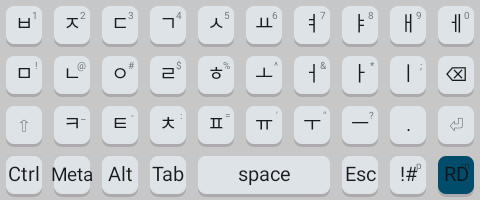
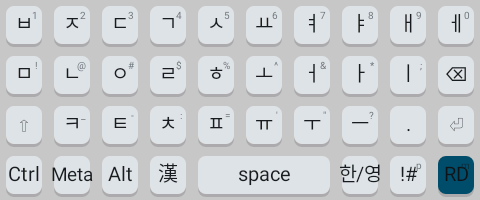
한/영 and 한자 on the remote page, and its keys sent as a physical keyboard's (0.2.5)
The owner: the far side's 한/영 key is the right Alt and its 한자 key the right Ctrl. The 2-beolsik
remote-desktop page now has 漢 (right Ctrl) left of space and 한/영 (right Alt) right of it, where a
Korean keyboard has them, in the cells Tab and Esc hold on every other layout; both are a tap away
on the !# page. New RawKey CTRL_RIGHT and ALT_RIGHT (evdev 97 and 100), named RCtrl and RAlt on the
action bar's chord picker, where PERIOD now reads "." too.

Checking those two by logging what the editor received showed a defect in 0.2.4 (manual §15.72):
a raw key with no modifier went out in the soft shape — scan code 0, virtual keyboard — which a
remote-desktop relay's soft path types as a character rather than forwarding as a key, so the far
IME would never have seen it. Only chords were dressed as hardware. SemanticInput.physicalKey
marks a raw key to be sent as a plugged-in keyboard sends it, with or without modifiers; the mark
rides through KeyAction.rawKey(SemanticInput) to the executor. Every key on the remote page is one,
Tab included, and a test requires a scan code for each.

The device matrix now turns remote mode off before it starts (a mode left on by a manual check
failed 29 cells), and stops at once if the test host APK is missing (`gradlew clean` deletes it;
six cells failed on that).

Verified:
- ./gradlew :app:testModernDebugUnitTest :app:testLegacyDebugUnitTest - PASS, 991 cases per
[…]

Changed region(s): [[0.6875, 0.81, 0.8125, 0.93], [0.3125, 0.81, 0.4062, 0.93]]

diff --git a/app/src/test/java/com/retekey/RemoteDesktopLayoutTest.java b/app/src/test/java/com/retekey/RemoteDesktopLayoutTest.java
@@ -41,6 +41,9 @@ public final class RemoteDesktopLayoutTest {
                         assertEquals(id + " " + letters.charAt(i), expected, input.rawKey());
                         // Shift travels with the press (the view folds it in), not in the key.
                         assertTrue(input.modifiers().isEmpty());
+                        // Sent the way a plugged-in keyboard sends it, so a relay takes it as a
+                        // key for the far IME rather than as a letter to type.
+                        assertTrue(input.isPhysical());
                         seen.add(input.rawKey());
                     }
                 }
@@ -79,6 +82,91 @@ public final class RemoteDesktopLayoutTest {
         KeyboardLayout page = KeyboardLayouts.remoteDesktop(KeyboardLayoutId.KO_DUBEOLSIK, false);
         List<SoftwareKeySpec> bottom = page.rows().get(3);
         assertEquals(ControlKey.REMOTE_DESKTOP, bottom.get(bottom.size() - 1).control());
+    }
+
+    @Test
+    public void theKoreanPageCarriesHanjaAndHanYeongWhereAKoreanKeyboardDoes() {
+        // On the far side's Korean IME, 한/영 is the right Alt and 한자 the right Ctrl (owner,
+        // 2026-11-18). They take Tab's and Esc's cells, either side of space, as on the hardware.
+        for (boolean shifted : new boolean[] {false, true}) {
+            KeyboardLayout page = KeyboardLayouts.remoteDesktop(
+                KeyboardLayoutId.KO_DUBEOLSIK, shifted);
+            List<SoftwareKeySpec> bottom = page.rows().get(3);
+            int space = bottom.indexOf(page.findById("touch.rd.space"));
+            SoftwareKeySpec hanja = bottom.get(space - 1);
+            SoftwareKeySpec hanYeong = bottom.get(space + 1);
+            assertEquals("漢", hanja.label());
+            assertEquals(RawKey.CTRL_RIGHT, hanja.semanticInput().rawKey());
+            assertEquals("한/영", hanYeong.label());
+            assertEquals(RawKey.ALT_RIGHT, hanYeong.semanticInput().rawKey());
+            assertEquals(ControlKey.CTRL, bottom.get(0).control());
+            assertEquals(ControlKey.META, bottom.get(1).control());
+            assertEquals(ControlKey.ALT, bottom.get(2).control());
+            assertEquals(null, page.findById("touch.rd.escape"));
+        }
+        KeyboardLayout russian = KeyboardLayouts.remoteDesktop(KeyboardLayoutId.RU_JCUKEN, false);
+        assertEquals(null, russian.findById("touch.rd.hanja"));
+        assertEquals(null, russian.findById("touch.rd.hanyeong"));
+        assertNotNull(russian.findById("touch.rd.escape"));
+        assertNotNull(russian.findById("touch.rd.tab"));
+    }
+
+    @Test
+    public void theRightHandModifiersReachTheEditorAsThemselves() {
+        assertEquals(android.view.KeyEvent.KEYCODE_ALT_RIGHT,
+            InputConnectionEditorBridge.keyCodeFor(RawKey.ALT_RIGHT));
+        assertEquals(android.view.KeyEvent.KEYCODE_CTRL_RIGHT,
+            InputConnectionEditorBridge.keyCodeFor(RawKey.CTRL_RIGHT));
+        assertEquals(100, InputConnectionEditorBridge.scanCodeFor(RawKey.ALT_RIGHT));
+        assertEquals(97, InputConnectionEditorBridge.scanCodeFor(RawKey.CTRL_RIGHT));
+        assertEquals("RAlt", BarSlot.keyName(RawKey.ALT_RIGHT));
+        assertEquals("RCtrl", BarSlot.keyName(RawKey.CTRL_RIGHT));
+        assertEquals(".", BarSlot.keyName(RawKey.PERIOD));
+    }
+
+    @Test
+    public void everyKeyEventOnThePageIsSentAsAPhysicalKey() {
+        for (KeyboardLayoutId id : RemoteDesktopLayouts.candidates()) {
+            for (List<SoftwareKeySpec> row : KeyboardLayouts.remoteDesktop(id, false).rows()) {
+                for (SoftwareKeySpec key : row) {
+                    SemanticInput input = key.semanticInput();
+                    if (input != null && input.kind() == SemanticInput.Kind.RAW_KEY
+                            && key.stableKeyId().startsWith("touch.rd.")) {
+                        assertTrue(id + " " + key.stableKeyId(), input.isPhysical());
+                        assertTrue(InputConnectionEditorBridge.scanCodeFor(input.rawKey()) > 0);
+                    }
+                }
+            }
+        }
+    }
+
+    @Test
+    public void aPhysicalKeyStaysPhysicalThroughTheProcessorAndShift() {
+        SemanticInput q = SemanticInput.physicalKey(RawKey.Q);
+        assertTrue(q.withModifiers(java.util.EnumSet.of(KeyModifier.SHIFT)).isPhysical());
+        assertFalse(SemanticInput.rawKey(RawKey.Q).isPhysical());
+        HangulInputProcessor processor = new HangulInputProcessor(() -> EditorProfile.richText(
+            false, false, false, false, false, 0, -1));
+        List<KeyAction> actions = processor.process(q).actions();
+        assertEquals(1, actions.size());
+        assertTrue(actions.get(0).isPhysical());
+        assertFalse(processor.process(SemanticInput.rawKey(RawKey.Q)).actions().get(0)
+            .isPhysical());
+    }
+
+    @Test
+    public void aPhysicalKeyWithoutModifiersReachesTheBridgeDressedAsHardware() {
+        FakeEditorBridge bridge = new FakeEditorBridge();
+        EditorBounds cursor = EditorBounds.of(1, 1, -1, -1);
+        TransitionPlan<String> plan = TransitionPlan.of(1, 0, DispatchResult.Disposition.HANDLED,
+            "state", cursor, java.util.Collections.singletonList(
+                KeyAction.rawKey(SemanticInput.physicalKey(RawKey.ALT_RIGHT))));
+        new CheckedEditorExecutor().execute(plan,
+            ExecutionContext.active(1, 0, cursor, EditorCapabilities.richText(false, false)),
+            () -> EditorEndpoint.of(1, bridge));
+        assertEquals(java.util.Arrays.asList(
+            "sendRawKey:key=ALT_RIGHT:modifiers=[]:hw:action=DOWN",
+            "sendRawKey:key=ALT_RIGHT:modifiers=[]:hw:action=UP"), bridge.trace());
     }
 
     @Test

diff --git a/app/src/main/java/com/retekey/KeyboardLayouts.java b/app/src/main/java/com/retekey/KeyboardLayouts.java
@@ -440,7 +440,7 @@ public final class KeyboardLayouts {
                 SoftwareKeySpec key = SoftwareKeySpec.enabled(
                     "touch.rd." + letter,
                     RemoteDesktopLayouts.letterCap(id, letter, shifted),
-                    SemanticInput.rawKey(RawKey.valueOf(
+                    SemanticInput.physicalKey(RawKey.valueOf(
                         String.valueOf(Character.toUpperCase(letter)))));
                 if (i < holds.length()) {
                     key = key.withLongPress(String.valueOf(holds.charAt(i)));
@@ -449,27 +449,38 @@ public final class KeyboardLayouts {
             }
             if (row == 1) {
                 keys.add(SoftwareKeySpec.enabled(
-                    "touch.rd.backspace", "⌫", SemanticInput.rawKey(RawKey.BACKSPACE)));
+                    "touch.rd.backspace", "⌫", SemanticInput.physicalKey(RawKey.BACKSPACE)));
             }
             if (row == 2) {
                 keys.add(SoftwareKeySpec.enabled("touch.rd.period",
                     RemoteDesktopLayouts.periodCap(id, shifted),
-                    SemanticInput.rawKey(RawKey.PERIOD)));
+                    SemanticInput.physicalKey(RawKey.PERIOD)));
                 keys.add(SoftwareKeySpec.enabled(
-                    "touch.rd.enter", "⏎", SemanticInput.rawKey(RawKey.ENTER)));
+                    "touch.rd.enter", "⏎", SemanticInput.physicalKey(RawKey.ENTER)));
             }
             rows.add(keys);
         }
+        // A Korean far side reads the right Ctrl as 한자 and the right Alt as 한/영 (owner,
+        // 2026-11-18), so the 2-beolsik page puts them either side of space where a Korean
+        // keyboard has them, in Tab's and Esc's cells; both are a tap away on the !# page.
+        boolean korean = id == KeyboardLayoutId.KO_DUBEOLSIK;
         rows.add(KeyboardLayout.row(
             SoftwareKeySpec.control("touch.modifier.ctrl", "Ctrl", ControlKey.CTRL),
             SoftwareKeySpec.control("touch.modifier.meta", "Meta", ControlKey.META),
             SoftwareKeySpec.control("touch.modifier.alt", "Alt", ControlKey.ALT),
-            tabKey(),
+            korean
+                ? SoftwareKeySpec.enabled(
+                    "touch.rd.hanja", "漢", SemanticInput.physicalKey(RawKey.CTRL_RIGHT))
+                : SoftwareKeySpec.enabled(
+                    "touch.rd.tab", "Tab", SemanticInput.physicalKey(RawKey.TAB)),
             SoftwareKeySpec
-                .enabled("touch.rd.space", "space", SemanticInput.rawKey(RawKey.SPACE))
+                .enabled("touch.rd.space", "space", SemanticInput.physicalKey(RawKey.SPACE))
                 .withColumnSpan(SPACE_COLUMN_SPAN),
-            SoftwareKeySpec.enabled(
-                "touch.rd.escape", "Esc", SemanticInput.rawKey(RawKey.ESCAPE)),
+            korean
+                ? SoftwareKeySpec.enabled(
+                    "touch.rd.hanyeong", "한/영", SemanticInput.physicalKey(RawKey.ALT_RIGHT))
+                : SoftwareKeySpec.enabled(
+                    "touch.rd.escape", "Esc", SemanticInput.physicalKey(RawKey.ESCAPE)),
             specialCharsKey(),
             // Where the globe is: the way out of the mode, with the menu still on its hold.
             SoftwareKeySpec

diff --git a/app/src/main/java/com/retekey/SemanticInput.java b/app/src/main/java/com/retekey/SemanticInput.java
@@ -44,6 +44,8 @@ public final class SemanticInput {
     private final Set<KeyModifier> modifiers;
     private final boolean correction;
     private final RawKeyPhase rawKeyPhase;
+    /** Whether a raw key goes out dressed as a physical keyboard's event; see physicalKey. */
+    private boolean physical;
 
     private SemanticInput(
         Kind kind,
@@ -131,6 +133,23 @@ public final class SemanticInput {
         return new SemanticInput(Kind.RAW_KEY, "", null, rawKey, modifiers, false, phase);
     }
 
+    /**
+     * A raw key sent the way a plugged-in keyboard sends it — keyboard source, real scan code —
+     * even with no modifier held. A remote-desktop relay types a soft key event as a character,
+     * which the far side's IME never sees; a physical one it forwards as a key, which that IME
+     * composes from. The remote-desktop page's keys are these.
+     */
+    public static SemanticInput physicalKey(RawKey rawKey) {
+        SemanticInput input = rawKey(rawKey);
+        input.physical = true;
+        return input;
+    }
+
+    /** Whether this raw key is sent as a physical keyboard's event. */
+    public boolean isPhysical() {
+        return physical;
+    }
+
     /** The same raw key with an added set of modifiers folded in. */
     public SemanticInput withModifiers(Set<KeyModifier> extra) {
         if (kind != Kind.RAW_KEY) {
@@ -142,7 +161,10 @@ public final class SemanticInput {
         EnumSet<KeyModifier> merged = EnumSet.noneOf(KeyModifier.class);
         merged.addAll(modifiers);
         merged.addAll(extra);
-        return new SemanticInput(Kind.RAW_KEY, "", null, rawKey, merged, false, rawKeyPhase);
+        SemanticInput folded =
+            new SemanticInput(Kind.RAW_KEY, "", null, rawKey, merged, false, rawKeyPhase);
+        folded.physical = physical;
+        return folded;
     }
 
     public static SemanticInput deleteBackward() {
@@ -233,12 +255,14 @@ public final class SemanticInput {
             && Objects.equals(jamo, that.jamo)
             && rawKey == that.rawKey
             && rawKeyPhase == that.rawKeyPhase
-            && modifiers.equals(that.modifiers);
+            && modifiers.equals(that.modifiers)
+            && physical == that.physical;
     }
 
     @Override
     public int hashCode() {
-        return Objects.hash(kind, text, jamo, rawKey, modifiers, correction, rawKeyPhase, transform);
+        return Objects.hash(
+            kind, text, jamo, rawKey, modifiers, correction, rawKeyPhase, transform, physical);
     }
 
     @Override
@@ -251,6 +275,7 @@ public final class SemanticInput {
             ", modifiers=" + modifiers +
             ", rawKeyPhase=" + rawKeyPhase +
             ", correction=" + correction +
+            ", physical=" + physical +
             '}';
     }
 }

diff --git a/app/src/main/java/com/retekey/KeyAction.java b/app/src/main/java/com/retekey/KeyAction.java
@@ -46,6 +46,8 @@ public final class KeyAction {
     private final RawKey rawKey;
     private final Set<KeyModifier> modifiers;
     private final RawKeyPhase rawKeyPhase;
+    /** Whether this raw key goes out as a physical keyboard's event (SemanticInput.physicalKey). */
+    private boolean physical;
 
     private KeyAction(
         Kind kind,
@@ -136,6 +138,18 @@ public final class KeyAction {
         return new KeyAction(Kind.RAW_KEY, "", 0, rawKey, modifiers, phase);
     }
 
+    /** The raw key a raw-key input asks for: its modifiers, its phase, and how it is sent. */
+    public static KeyAction rawKey(SemanticInput input) {
+        KeyAction action = rawKey(input.rawKey(), input.modifiers(), input.rawKeyPhase());
+        action.physical = input.isPhysical();
+        return action;
+    }
+
+    /** Whether this raw key is sent as a physical keyboard's event. */
+    public boolean isPhysical() {
+        return physical;
+    }
+
     /** Which half of a press this raw key is; {@link RawKeyPhase#TAP} for everything else. */
     public RawKeyPhase rawKeyPhase() {
         return rawKeyPhase;
@@ -187,12 +201,13 @@ public final class KeyAction {
             && actionId == that.actionId
             && rawKey == that.rawKey
             && rawKeyPhase == that.rawKeyPhase
-            && modifiers.equals(that.modifiers);
+            && modifiers.equals(that.modifiers)
+            && physical == that.physical;
     }
 
     @Override
     public int hashCode() {
-        return Objects.hash(kind, text, actionId, rawKey, modifiers, rawKeyPhase);
+        return Objects.hash(kind, text, actionId, rawKey, modifiers, rawKeyPhase, physical);
     }
 
     @Override

diff --git a/app/src/main/java/com/retekey/CheckedEditorExecutor.java b/app/src/main/java/com/retekey/CheckedEditorExecutor.java
@@ -327,7 +327,10 @@ public final class CheckedEditorExecutor {
         //   Ctrl+A 는 되므로, 프레임 있는 코드는 이벤트를 **물리 키보드 모양**(키보드 source,
         //   실제 스캔코드, 소프트 플래그 제거)으로 입혀 릴레이의 하드웨어 경로 — 수식 상태를
         //   추적해 조합하는 경로 — 를 타게 한다. 글자에는 meta 도 도로 싣는다.
-        boolean dressAsHardware = !frame.isEmpty();
+        // A key from the remote-desktop page is dressed so with or without a frame: its whole
+        // point is to reach the far side as a key, never as a character typed there.
+        boolean dressAsHardware = !frame.isEmpty()
+            || action.kind() == KeyAction.Kind.RAW_KEY && action.isPhysical();
         // The chord owns every modifier it pressed until it has let it go (review R01). A press
         // is attempted only while the session is still this one, and after a refused, throwing
         // or stale press nothing more is pressed: Ctrl+C whose Ctrl failed must not arrive as a

diff --git a/app/src/main/java/com/retekey/InputConnectionEditorBridge.java b/app/src/main/java/com/retekey/InputConnectionEditorBridge.java
@@ -202,6 +202,8 @@ public final class InputConnectionEditorBridge implements EditorBridge {
             case ESCAPE: return 1;
             case SPACE: return 57;
             case PERIOD: return 52;
+            case CTRL_RIGHT: return 97;
+            case ALT_RIGHT: return 100;
             case LEFT: return 105;
             case RIGHT: return 106;
             case UP: return 103;
@@ -250,6 +252,8 @@ public final class InputConnectionEditorBridge implements EditorBridge {
             case F12: return KeyEvent.KEYCODE_F12;
             case SPACE: return KeyEvent.KEYCODE_SPACE;
             case PERIOD: return KeyEvent.KEYCODE_PERIOD;
+            case CTRL_RIGHT: return KeyEvent.KEYCODE_CTRL_RIGHT;
+            case ALT_RIGHT: return KeyEvent.KEYCODE_ALT_RIGHT;
             default:
                 if (key.ordinal() >= RawKey.DIGIT_0.ordinal()
                     && key.ordinal() <= RawKey.DIGIT_9.ordinal()) {

diff --git a/app/src/main/java/com/retekey/RawKey.java b/app/src/main/java/com/retekey/RawKey.java
@@ -44,5 +44,8 @@ public enum RawKey {
     CTRL_LEFT, SHIFT_LEFT, ALT_LEFT, META_LEFT,
     // The period key, for the remote-desktop page: the far side's IME reads it by position — it
     // is ю on a Russian layout — so it has to arrive as the key, not as a "." this side typed.
-    PERIOD
+    PERIOD,
+    // The right-hand Ctrl and Alt, as keys of their own. A Korean IME reads them as 한자 and
+    // 한/영 (owner, 2026-11-18), which is what the remote-desktop page sends them for.
+    CTRL_RIGHT, ALT_RIGHT
 }

diff --git a/app/src/main/java/com/retekey/ScaffoldInputProcessor.java b/app/src/main/java/com/retekey/ScaffoldInputProcessor.java
@@ -50,7 +50,7 @@ public final class ScaffoldInputProcessor implements StatelessInputProcessor {
                 );
             case RAW_KEY:
                 return DispatchResult.handled(
-                    KeyAction.rawKey(input.rawKey(), input.modifiers(), input.rawKeyPhase())
+                    KeyAction.rawKey(input)
                 );
             case TRANSFORM:
                 // A Hangul transformation means nothing to this processor.

diff --git a/app/src/main/java/com/retekey/HangulInputProcessor.java b/app/src/main/java/com/retekey/HangulInputProcessor.java
@@ -209,7 +209,7 @@ public final class HangulInputProcessor implements StatelessInputProcessor {
                 return primaryAction();
             case RAW_KEY:
                 return flushThen(
-                    KeyAction.rawKey(input.rawKey(), input.modifiers(), input.rawKeyPhase()));
+                    KeyAction.rawKey(input));
             case TRANSFORM:
                 return transform(input.transform());
             default:

diff --git a/app/src/main/java/com/retekey/BarSlot.java b/app/src/main/java/com/retekey/BarSlot.java
@@ -161,6 +161,9 @@ final class BarSlot {
             case MENU: return "Menu";
             case SEARCH: return "Search";
             case SPACE: return "Space";
+            case PERIOD: return ".";
+            case CTRL_RIGHT: return "RCtrl";
+            case ALT_RIGHT: return "RAlt";
             default:
                 break;
         }

diff --git a/README.md b/README.md
@@ -1,4 +1,4 @@
-[한국어](README.ko.md) | **English** — **ReteKey IME v0.2.4** — [APK(Android 9.0+)](https://github.com/rubidus-api/retekey_apk/releases/download/v0.2.4/retekey-0.2.4.apk) · [legacy APK(Android 4.0+)](https://github.com/rubidus-api/retekey_apk/releases/download/v0.2.4/retekey-0.2.4-legacy.apk)<br>
+[한국어](README.ko.md) | **English** — **ReteKey IME v0.2.5** — [APK(Android 9.0+)](https://github.com/rubidus-api/retekey_apk/releases/download/v0.2.5/retekey-0.2.5.apk) · [legacy APK(Android 4.0+)](https://github.com/rubidus-api/retekey_apk/releases/download/v0.2.5/retekey-0.2.5-legacy.apk)<br>
 Is your phone's web browser too old to download files from GitHub? Try [ReteGet](https://github.com/rubidus-api/reteget_apk), a file and APK downloader for old Android phones.
 
 # ReteKey IME
@@ -49,13 +49,13 @@ published here before shipping it, so what you install is what this repository b
 
 Or take an APK directly:
 
-**[⬇ Android 9+](https://github.com/rubidus-api/retekey_apk/releases/download/v0.2.4/retekey-0.2.4.apk)**
+**[⬇ Android 9+](https://github.com/rubidus-api/retekey_apk/releases/download/v0.2.5/retekey-0.2.5.apk)**
 &nbsp;·&nbsp;
-**[⬇ Android 4.0+](https://github.com/rubidus-api/retekey_apk/releases/download/v0.2.4/retekey-0.2.4-legacy.apk)**
+**[⬇ Android 4.0+](https://github.com/rubidus-api/retekey_apk/releases/download/v0.2.5/retekey-0.2.5-legacy.apk)**
 &nbsp;·&nbsp; [all releases](https://github.com/rubidus-api/retekey_apk/releases)
 
-Current release: **v0.2.4** —
-[retekey-0.2.4.apk](https://github.com/rubidus-api/retekey_apk/releases/download/v0.2.4/retekey-0.2.4.apk) (706 KB; the Android 4.0 build is 565 KB)
+Current release: **v0.2.5** —
+[retekey-0.2.5.apk](https://github.com/rubidus-api/retekey_apk/releases/download/v0.2.5/retekey-0.2.5.apk) (707 KB; the Android 4.0 build is 566 KB)
 
 Take the first link unless your phone is older than Android 9; the two are the same app and one
 replaces the other. [More about the two builds](#android-version-support). F-Droid carries the
@@ -402,7 +402,10 @@ the key drawn ㅂ sends `q`, and the far side's IME makes ㅂ of it.
 Pick the layout in **Settings → Remote desktop**: the list is the layouts this keyboard already has a
 physical-keyboard table for — 2beolsik first, then QWERTY, Dvorak, Colemak, QWERTZ, AZERTY, Russian,
 Arabic and the rest. Shift goes out as a real Shift, space, backspace, Enter and the full stop go out
-as keys too, and Ctrl, Alt and Meta make chords as usual. The top row holds the digits and the other
+as keys too, and Ctrl, Alt and Meta make chords as usual. On the 2beolsik page the cells beside
+space are **漢**, the right Ctrl, and **한/영**, the right Alt — the keys a Korean IME reads as 한자
+and 한/영 — where a Korean keyboard has them; Tab and Esc, which other layouts keep there, are on
+the **!#** page. The top row holds the digits and the other
 rows the usual symbols, typed as characters. **RD** where the layout key usually is turns the mode
 off again; holding it opens the menu. The mode stays on until you turn it off.
 
